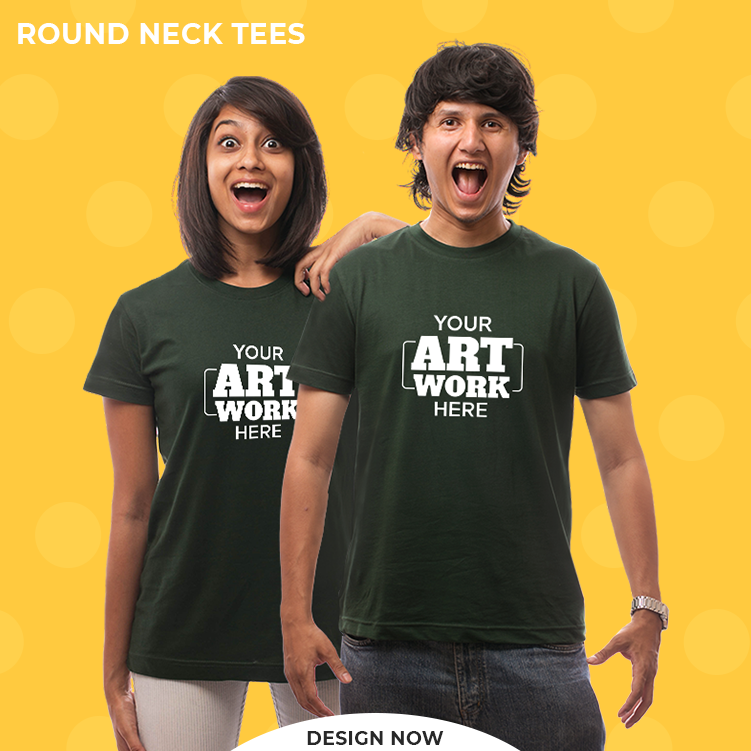
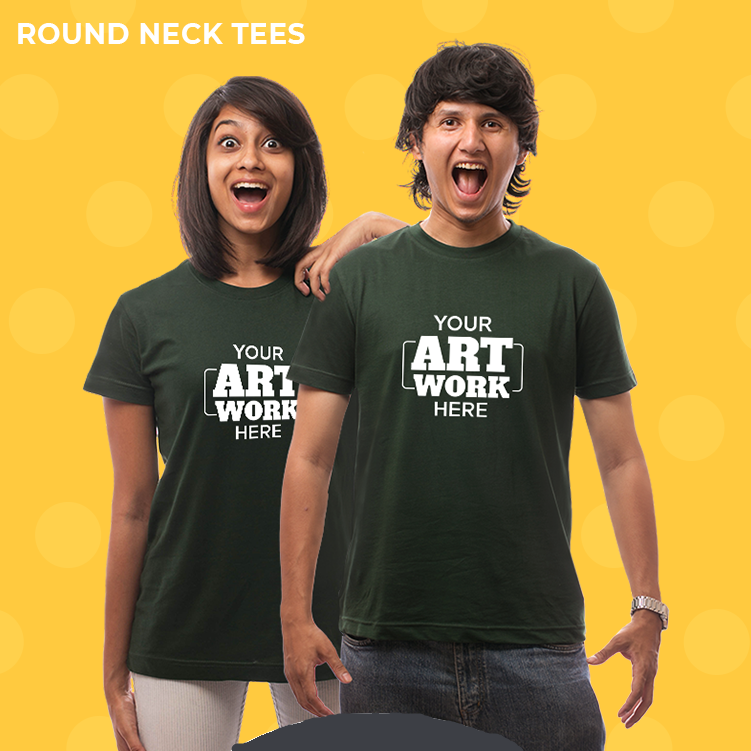
Homepage design

Changed region(s): [[0.3063, 0.9494, 0.7044, 1.0]]

diff --git a/website_client/src/features/products/CategoryDetailsComponent.js b/website_client/src/features/products/CategoryDetailsComponent.js
@@ -157,21 +157,9 @@ class CategoryDetailsComponent extends React.Component {
     return c;
   };
   calPricePerUnit = (printingOnArr, totalQuantity) => {
-    var pricePerUnit = 0;
-    var plainPrice;
-    var price;
-    switch (this.props.item.cateName) {
-      case 'Dry fit Round Neck T shirt': {
-        price = 115;
-        break;
-      }
-      case 'Pure Cotton Round Neck T shirt': {
-        price = 135;
-        break;
-      }
-      default:
-        price = 0;
-    }
+    var price = this.props.item
+      ? parseInt(this.props.item.pricePerUnit, 10)
+      : 0;
     if (totalQuantity >= 500) {
       price -= 15;
     }
@@ -208,44 +196,65 @@ class CategoryDetailsComponent extends React.Component {
   render() {
     if (this.props.item) {
       return (
-        <div>
-          <form className="container-fluid" onSubmit={this.handleFormSubmit}>
-            <h3>{this.props.item.cateName}</h3>
-            <Input
-              title={'Order name :'}
-              name={'orderName'}
-              inputType={'text'}
-              handleChange={this.handleInput}
-              placeholder={'Enter a relevant order name'}
-              value={this.state.orderName}
-            />
-            <Select
-              title={'Select Color of item :'}
-              name={'color'}
-              options={this.colorOptions}
-              value={this.state.color}
-              placeholder={'None'}
-              handleChange={this.handleInput}
-            />
-            <SizeInputs
-              title={'Sizes :'}
-              options={this.state.sizes}
-              handleChange={this.handleSizeInput}
-            />
-            <CheckBox
-              title={'Printing On :'}
-              name={'printingOn'}
-              options={this.printingOptions}
-              selectedOptions={this.state.printingOn}
-              handleChange={this.handleCheckBox}
-            />
-            <br />
-            Total quantity : {this.state.totalQuantity} <br />
-            Price per pc : {this.state.pricePerUnit} <br />
-            Total Price : {this.state.totalPriceInfo[0]} <br />
-            Advance Required : {this.state.totalPriceInfo[1]} <br />
-            {this.props.button(this.state)}
-          </form>
+        <div className="container-fluid p-3">
+          <div className="row">
+            <div className="col-sm -3" style={{ textAlign: 'center' }}>
+              <img
+                src={`http://localhost:8000${this.props.item.url}`}
+                className="d-flex img-fluid"
+                alt={this.props.item.cateName}
+              />
+              <br />
+              <h4>Total quantity : {this.state.totalQuantity} </h4>
+              <h4>
+                Price per pc : <i className="fas fa-rupee-sign"></i>{' '}
+                {this.state.pricePerUnit}{' '}
+              </h4>
+              <h4>
+                Total Price : <i className="fas fa-rupee-sign"></i>{' '}
+                {this.state.totalPriceInfo[0]}{' '}
+              </h4>
+            </div>
+            <div className="col-sm-9">
+              <form
+                className="container-fluid"
+                onSubmit={this.handleFormSubmit}
+              >
+                <h3>{this.props.item.cateName}</h3>
+                <Input
+                  title={'Order name :'}
+                  name={'orderName'}
+                  inputType={'text'}
+                  handleChange={this.handleInput}
+                  placeholder={'Enter a relevant order name'}
+                  value={this.state.orderName}
+                />
+                <Select
+                  title={'Select Color of item :'}
+                  name={'color'}
+                  options={this.colorOptions}
+                  value={this.state.color}
+                  placeholder={'None'}
+                  handleChange={this.handleInput}
+                />
+                <SizeInputs
+                  title={'Sizes :'}
+                  options={this.state.sizes}
+                  handleChange={this.handleSizeInput}
+                />
+                <CheckBox
+                  title={'Printing On :'}
+                  name={'printingOn'}
+                  options={this.printingOptions}
+                  selectedOptions={this.state.printingOn}
+                  handleChange={this.handleCheckBox}
+                />
+                <br />
+                Advance Required : {this.state.totalPriceInfo[1]} <br />
+                {this.props.button(this.state)}
+              </form>
+            </div>
+          </div>
         </div>
       );
     } else {

diff --git a/routes/category.js b/routes/category.js
@@ -7,7 +7,7 @@ router.get('/api/category/all', (req, res, next) => {
   db.getDB()
     .collection('category')
     .find()
-    .sort({ cateName: 1 })
+    .sort({ createdOn: -1 })
     .toArray((err, doc) => {
       console.log('entered');
       if (err) {
@@ -53,20 +53,17 @@ router.post('/api/category', midWare.checkToken, (req, res, next) => {
   if (!req.body.cateName) {
     res.status(400).jsonp('Incomplete information');
   } else {
-    url = req.body.cateName
-      .toLowerCase()
-      .replace(/ /g, '-')
-      .replace(/[^\w-]+/g, '');
     let cateInfo = {
       cateName: req.body.cateName,
       availability: req.body.availability,
       description: req.body.description,
-      cateUrl: url,
+      url: req.body.url,
+      pricePerUnit: req.body.pricePerUnit,
       createdOn: new Date().toString(),
       updatedOn: new Date().toString(),
     };
     let dataCollect = db.getDB().collection('category');
-    dataCollect.countDocuments({ cateUrl: url }, (err, doc) => {
+    dataCollect.countDocuments({ url: req.body.url }, (err, doc) => {
       if (err) {
         res.status(410).jsonp(err);
         next(err);
@@ -87,29 +84,26 @@ router.post('/api/category', midWare.checkToken, (req, res, next) => {
 });
 
 router.put('/api/category/:id', midWare.checkToken, (req, res, next) => {
-  if (!req.body.cateName) {
-    res.status(400).jsonp('Incomplete information');
-  } else {
-    let cateInfo = {
-      $set: {
-        cateName: req.body.cateName,
-        availability: req.body.availability,
-        description: req.body.description,
-        updatedOn: new Date().toString(),
-      },
-    };
-    let dataCollect = db.getDB().collection('category');
-    dataCollect.updateOne(
-      { _id: db.getPrimaryKey(req.params.id) },
-      cateInfo,
-      (iErr, result) => {
-        if (iErr) {
-          res.status(410).jsonp(iErr);
-          next(iErr);
-        } else res.status(201).jsonp('Category updated successfully!');
-      }
-    );
-  }
+  let cateInfo = {
+    $set: {
+      cateName: req.body.cateName,
+      availability: req.body.availability,
+      description: req.body.description,
+      pricePerUnit: req.body.pricePerUnit,
+      updatedOn: new Date().toString(),
+    },
+  };
+  let dataCollect = db.getDB().collection('category');
+  dataCollect.updateOne(
+    { _id: db.getPrimaryKey(req.params.id) },
+    cateInfo,
+    (iErr, result) => {
+      if (iErr) {
+        res.status(410).jsonp(iErr);
+        next(iErr);
+      } else res.status(201).jsonp('Category updated successfully!');
+    }
+  );
 });
 
 router.delete('/api/category/:id', midWare.checkToken, (req, res, next) => {

diff --git a/website_client/src/features/products/CategoryListContainer.js b/website_client/src/features/products/CategoryListContainer.js
@@ -3,14 +3,30 @@ import { categoryOperations } from './ducks';
 import { connect } from 'react-redux';
 import displayListHOC from '../../commonComponents/displayListHOC';
 import CategoryItem from './CategoryItem';
-let NewComponent = displayListHOC(CategoryItem);
+let Column1 = displayListHOC(CategoryItem);
+let Column2 = displayListHOC(CategoryItem);
+let Column3 = displayListHOC(CategoryItem);
 class CategoryListContainer extends React.Component {
   componentDidMount() {
-    this.props.fetchCategories();
+    if (this.props.products.length === 0 || this.props.products.length === 1) {
+      this.props.fetchCategories();
+    }
   }
   render() {
     if (this.props.fetchError === null && this.props.products) {
-      return <NewComponent itemList={this.props.products} />;
+      return (
+        <div className="row no-gutters">
+          <div className="col-sm-4">
+            <Column1 itemList={this.props.products1} />
+          </div>
+          <div className="col-sm-4">
+            <Column2 itemList={this.props.products2} />
+          </div>
+          <div className="col-sm-4">
+            <Column3 itemList={this.props.products3} />
+          </div>
+        </div>
+      );
     } else {
       return <div></div>;
     }
@@ -18,9 +34,17 @@ class CategoryListContainer extends React.Component {
 }
 
 const mapStateToProps = (state) => {
+  const products = Object.values(state.products);
+  console.log(products);
+  const products1 = products.slice(0, 3);
+  const products2 = products.slice(3, 6);
+  const products3 = products.slice(6, 8);
   return {
     fetchError: state.fetchError.error,
     products: Object.values(state.products),
+    products1,
+    products2,
+    products3,
   };
 };
 

diff --git a/website_client/src/features/home/ProductsGrid.js b/website_client/src/features/home/ProductsGrid.js
@@ -9,11 +9,11 @@ const ProductsGrid = () => {
           className="d-flex img-fluid"
         />
         <img
-          src="http://localhost:8000/uploads/drop cut tees.png"
+          src="http://localhost:8000/uploads/hoodies.png"
           className="d-flex img-fluid"
         />
         <img
-          src="http://localhost:8000/uploads/"
+          src="http://localhost:8000/uploads/zipper hoodies.png"
           className="d-flex img-fluid"
         />
       </div>
@@ -23,11 +23,11 @@ const ProductsGrid = () => {
           className="d-flex img-fluid"
         />
         <img
-          src="http://localhost:8000/uploads/"
+          src="http://localhost:8000/uploads/drop cut tees.png"
           className="d-flex img-fluid"
         />
         <img
-          src="http://localhost:8000/uploads/"
+          src="http://localhost:8000/uploads/High_neck_zipper_hoodies.png"
           className="d-flex img-fluid"
         />
       </div>
@@ -37,7 +37,7 @@ const ProductsGrid = () => {
           className="d-flex img-fluid"
         />
         <img
-          src="http://localhost:8000/uploads/"
+          src="http://localhost:8000/uploads/shirts.png"
           className="d-flex img-fluid"
         />
         <img

diff --git a/website_client/src/features/products/CategoryDetailsContainer.js b/website_client/src/features/products/CategoryDetailsContainer.js
@@ -6,7 +6,9 @@ import CategoryDetailsComponent from './CategoryDetailsComponent';
 import { bindActionCreators } from 'redux';
 class CategoryDetailsContainer extends React.Component {
   componentDidMount() {
-    this.props.fetchCategory(this.props.match.params.id);
+    if (!this.props.product) {
+      this.props.fetchCategory(this.props.match.params.id);
+    }
   }
   renderButton = (obj) => {
     return (
@@ -15,6 +17,7 @@ class CategoryDetailsContainer extends React.Component {
           e.preventDefault();
           await this.props.addToCart(obj);
         }}
+        className="btn btn-primary"
       >
         {' '}
         Add To Cart{' '}

diff --git a/website_client/src/features/home/Homepage.js b/website_client/src/features/home/Homepage.js
@@ -12,13 +12,12 @@ class Homepage extends React.Component {
         <br />
         <div style={{ textAlign: 'center' }} className="p-3">
           <h2>
-            <u style={{ textDecorationSkipInk: 'none' }}>Products</u>
+            <u style={{ textDecorationSkipInk: 'none' }}>Bulk Order Products</u>
           </h2>
         </div>
         <div style={{ padding: '10px' }}>
-          <ProductsGrid />
+          <CategoryListContainer />
         </div>
-        <CategoryListContainer />
       </div>
     );
   }

diff --git a/website_client/src/features/products/CategoryItem.js b/website_client/src/features/products/CategoryItem.js
@@ -3,7 +3,13 @@ import { Link } from 'react-router-dom';
 const CategoryItem = (props) => {
   return (
     <div>
-      <Link to={`/products/${props.item._id}`}>{props.item.cateName}</Link>
+      <Link to={`/products/${props.item._id}`}>
+        <img
+          src={`http://localhost:8000${props.item.url}`}
+          className="d-flex img-fluid"
+          alt={props.item.cateName}
+        />
+      </Link>
     </div>
   );
 };

diff --git a/website_client/src/features/home/Carousel.css b/website_client/src/features/home/Carousel.css
@@ -3,3 +3,16 @@
 .carousel-item-prev {
   display: block;
 }
+
+#carousel-container {
+  padding: 5px;
+}
+.row {
+  margin-right: inherit;
+  margin-left: inherit;
+}
+.carousel-inner {
+  border-color: red;
+  border-style: solid;
+  border-width: thin;
+}

diff --git a/website_client/src/commonComponents/displayListHOC.js b/website_client/src/commonComponents/displayListHOC.js
@@ -1,6 +1,5 @@
 import React from 'react';
 const displayListHOC = (ItemComponent) => (props) => {
-  console.log(props.itemList);
   return (
     <React.Fragment>
       {props.itemList.map((element) => {
